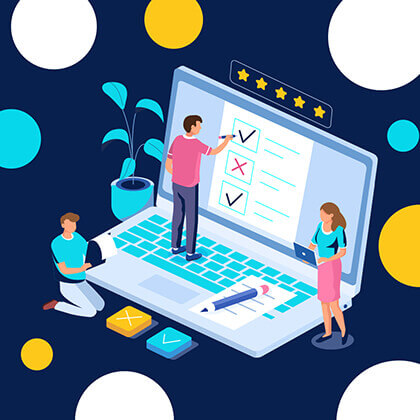
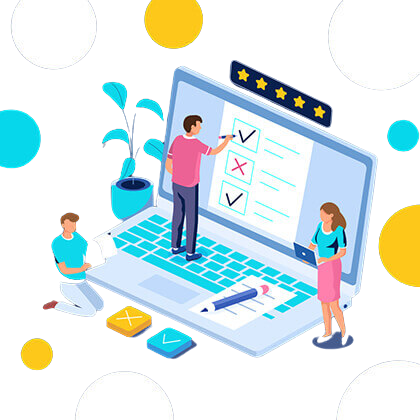
Candidate assessment page design changes oct 3

diff --git a/src/app/modules/candidate-assessment/candidate-assessment.component.scss b/src/app/modules/candidate-assessment/candidate-assessment.component.scss
@@ -7,11 +7,28 @@
     text-align: center;
     background-color: #27374d;
     color: #fff;
-  }
-  .title{
-    background-color: #27374d;
-  }
   
+  }
+//   .title{
+//     background-color: #27374d;
+//     font-family:  Pop-semibold;
+//     font-size: 1.62rem;
+//     line-height: 2.9rem
+//   }
+  
+.card-title{
+    font-size: 1.62rem;
+    line-height: 2.9rem;
+    // margin-bottom: 1.62rem;
+    color: black;
+    // font-family: Pop-semibold;
+    // margin-bottom: 0.8rem;
+    font-family: "Poppins", sans-serif;
+    margin-top: 130px;
+    
+}
+
+
   .btn {
     margin-top: 15px;
   }
@@ -20,26 +37,81 @@
     padding: 1rem;
     background-color: #27374d;
     color: white;
+    font-family:  Pop-semibold;
+    font-size: 1.62rem;
+    line-height: 1.8rem
 }
 
-.candidate-image{
-    width: 120px;
-    vertical-align: middle;
-}
+
 
 .custom-card{
     display: flex;
     flex-direction: row;
     justify-content: space-between;
-    padding-left: 40px;
-    padding-right: 250px;
-    margin-top: 40px;
+    padding-left: 50px;
+    padding-right: 200px;
     height: 120px;
-    background-color: #F4D03F;
-    background-image: linear-gradient(132deg, #F4D03F 0%, #16A085 100%);
-    
+    background-color: #9DB2BF;
+    border-radius: 15px;
+    box-shadow: 0px 0px 5px rgba(0, 0, 0, 0.5), 0px 0px 5px rgba(255, 255, 255, 1);
+    margin: 40px 20px auto 20px;
 
-    
 
 }
+
+:host ::ng-deep   .candidate-image[_ngcontent-ng-c4203767422] {
+    width: 120px;
+    vertical-align: middle;
+    overflow-clip-margin: content-box;
+    overflow: clip;
+    height: 200px;
+}
+
+
+.create_button {
+    .p-button {
+      background: #526d82;
+    }
+  }
+  
+  .btn {
+    font-size: 0.875rem;
+  
+    background-color: #526d82;
+  
+    border-color: #526d82;
+  
+    border-radius: 4px;
+  
+    color: #fff;
+  
+    padding: 5px 10px;
+  
+    border: none;
+  }
+
+  .textdata{
+
+    margin-top: 20px;
+    font-family: "Poppins", sans-serif;
+
+  }
+
+
+
+.card{
+    margin-top: 50px;
+    border-radius: 4px;
+}
+
+.card-content{
+    margin-top: 10px;
+}
+
+
+
+
+
+
+
 

diff --git a/src/app/modules/candidate-assessment/candidate-assessment.component.ts b/src/app/modules/candidate-assessment/candidate-assessment.component.ts
@@ -11,6 +11,7 @@ import { Router } from '@angular/router';
 
 import { SkillsdropdownService } from 'src/app/services/skillsdropdown.service';
 
+
 @Component({
   selector: 'app-candidate-assessment',
   templateUrl: './candidate-assessment.component.html',
@@ -18,15 +19,38 @@ import { SkillsdropdownService } from 'src/app/services/skillsdropdown.service';
 })
 export class CandidateAssessmentComponent   {
 
-  candidateName: string = 'John Doe'; // Replace with the candidate's actual name
+  candidateName: string = 'Aishwarya'; 
 
-  constructor(private router: Router) {}
+  cols!: Column[];
+
+  candidateList: any[] = [];
+
+
+  constructor(private router: Router) {
+
+
+
+  }
+
+  ngOnInit(): void {
+    this.cols = [
+      { field: 'manager', header: 'Manager' },
+
+      { field: 'file name', header: 'File name' },
+
+      { field: 'actions', header: 'Actions' },
+    ];
+    
+  }
 
   startAssessment() {
-    // Navigate to the assessment page when the "Continue" button is clicked
+    
     this.router.navigate(['/assessment']);
   }
 
+
+
+  
 }
 
 
@@ -34,4 +58,8 @@ export class CandidateAssessmentComponent   {
 
 
 
-  
+interface Column {
+  field: string;
+
+  header: string;
+}

diff --git a/src/app/modules/candidate-assessment/candidate-assessment.component.html b/src/app/modules/candidate-assessment/candidate-assessment.component.html
@@ -1,17 +1,26 @@
 
 
 <div class="custom-card">
-<div>
-    <div>    <span class="card-title">Hi {{ candidateName }}</span>    </div>
     <div class="card-content">
-      <p>Please click "Continue" to attempt the test. Good luck!</p>
-      <button pButton type="button" label="Continue" class="p-button-primary" (click)="startAssessment()"></button>
+        <div> <span class="card-title">Hi {{ candidateName }}!</span>  </div>
+        <div class="card-content">
+          <p class="textdata">Please click "Start" to attempt the test. Good luck!</p>
+       
+        </div>
+    </div>   
     </div>
-</div>
-    <div >
-    <img src="../assets\candidate-assessment.png" alt="Candidate Image" class="candidate-image">
-    </div>
-</div>
 
+   
+  
+         
+        
 
+        
+       
+  
  
+    
+    
+
+     
+    
